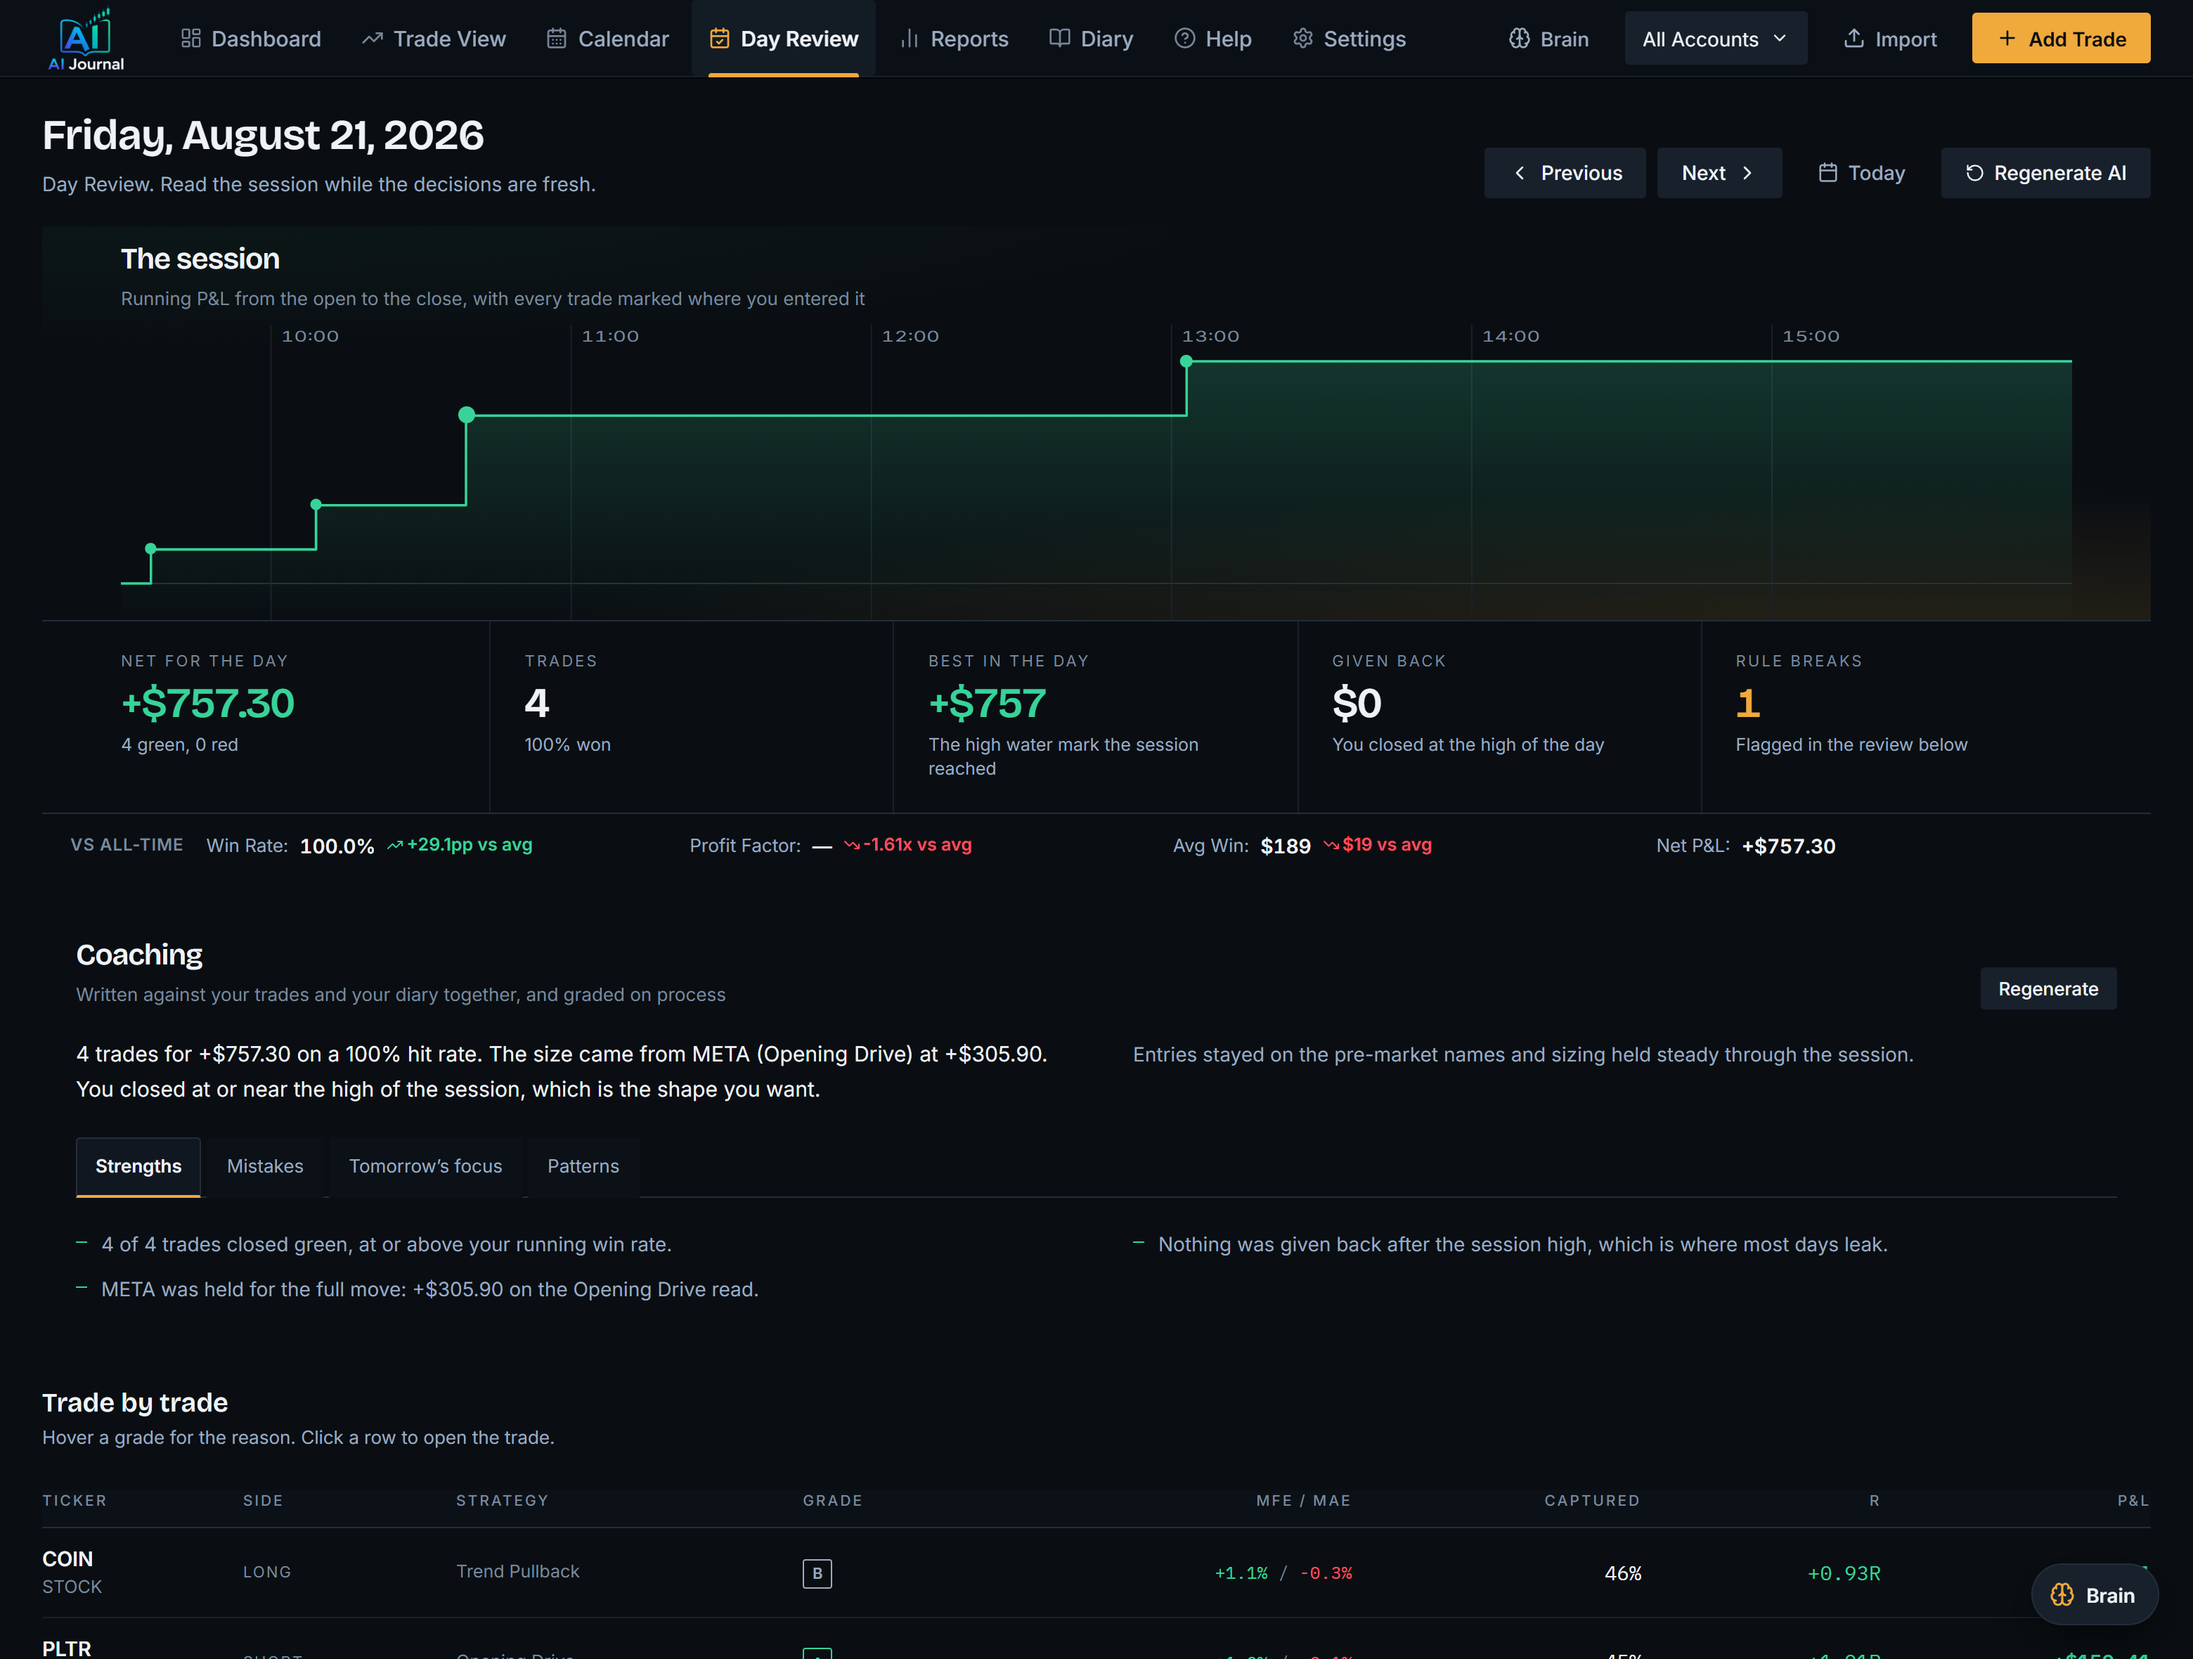
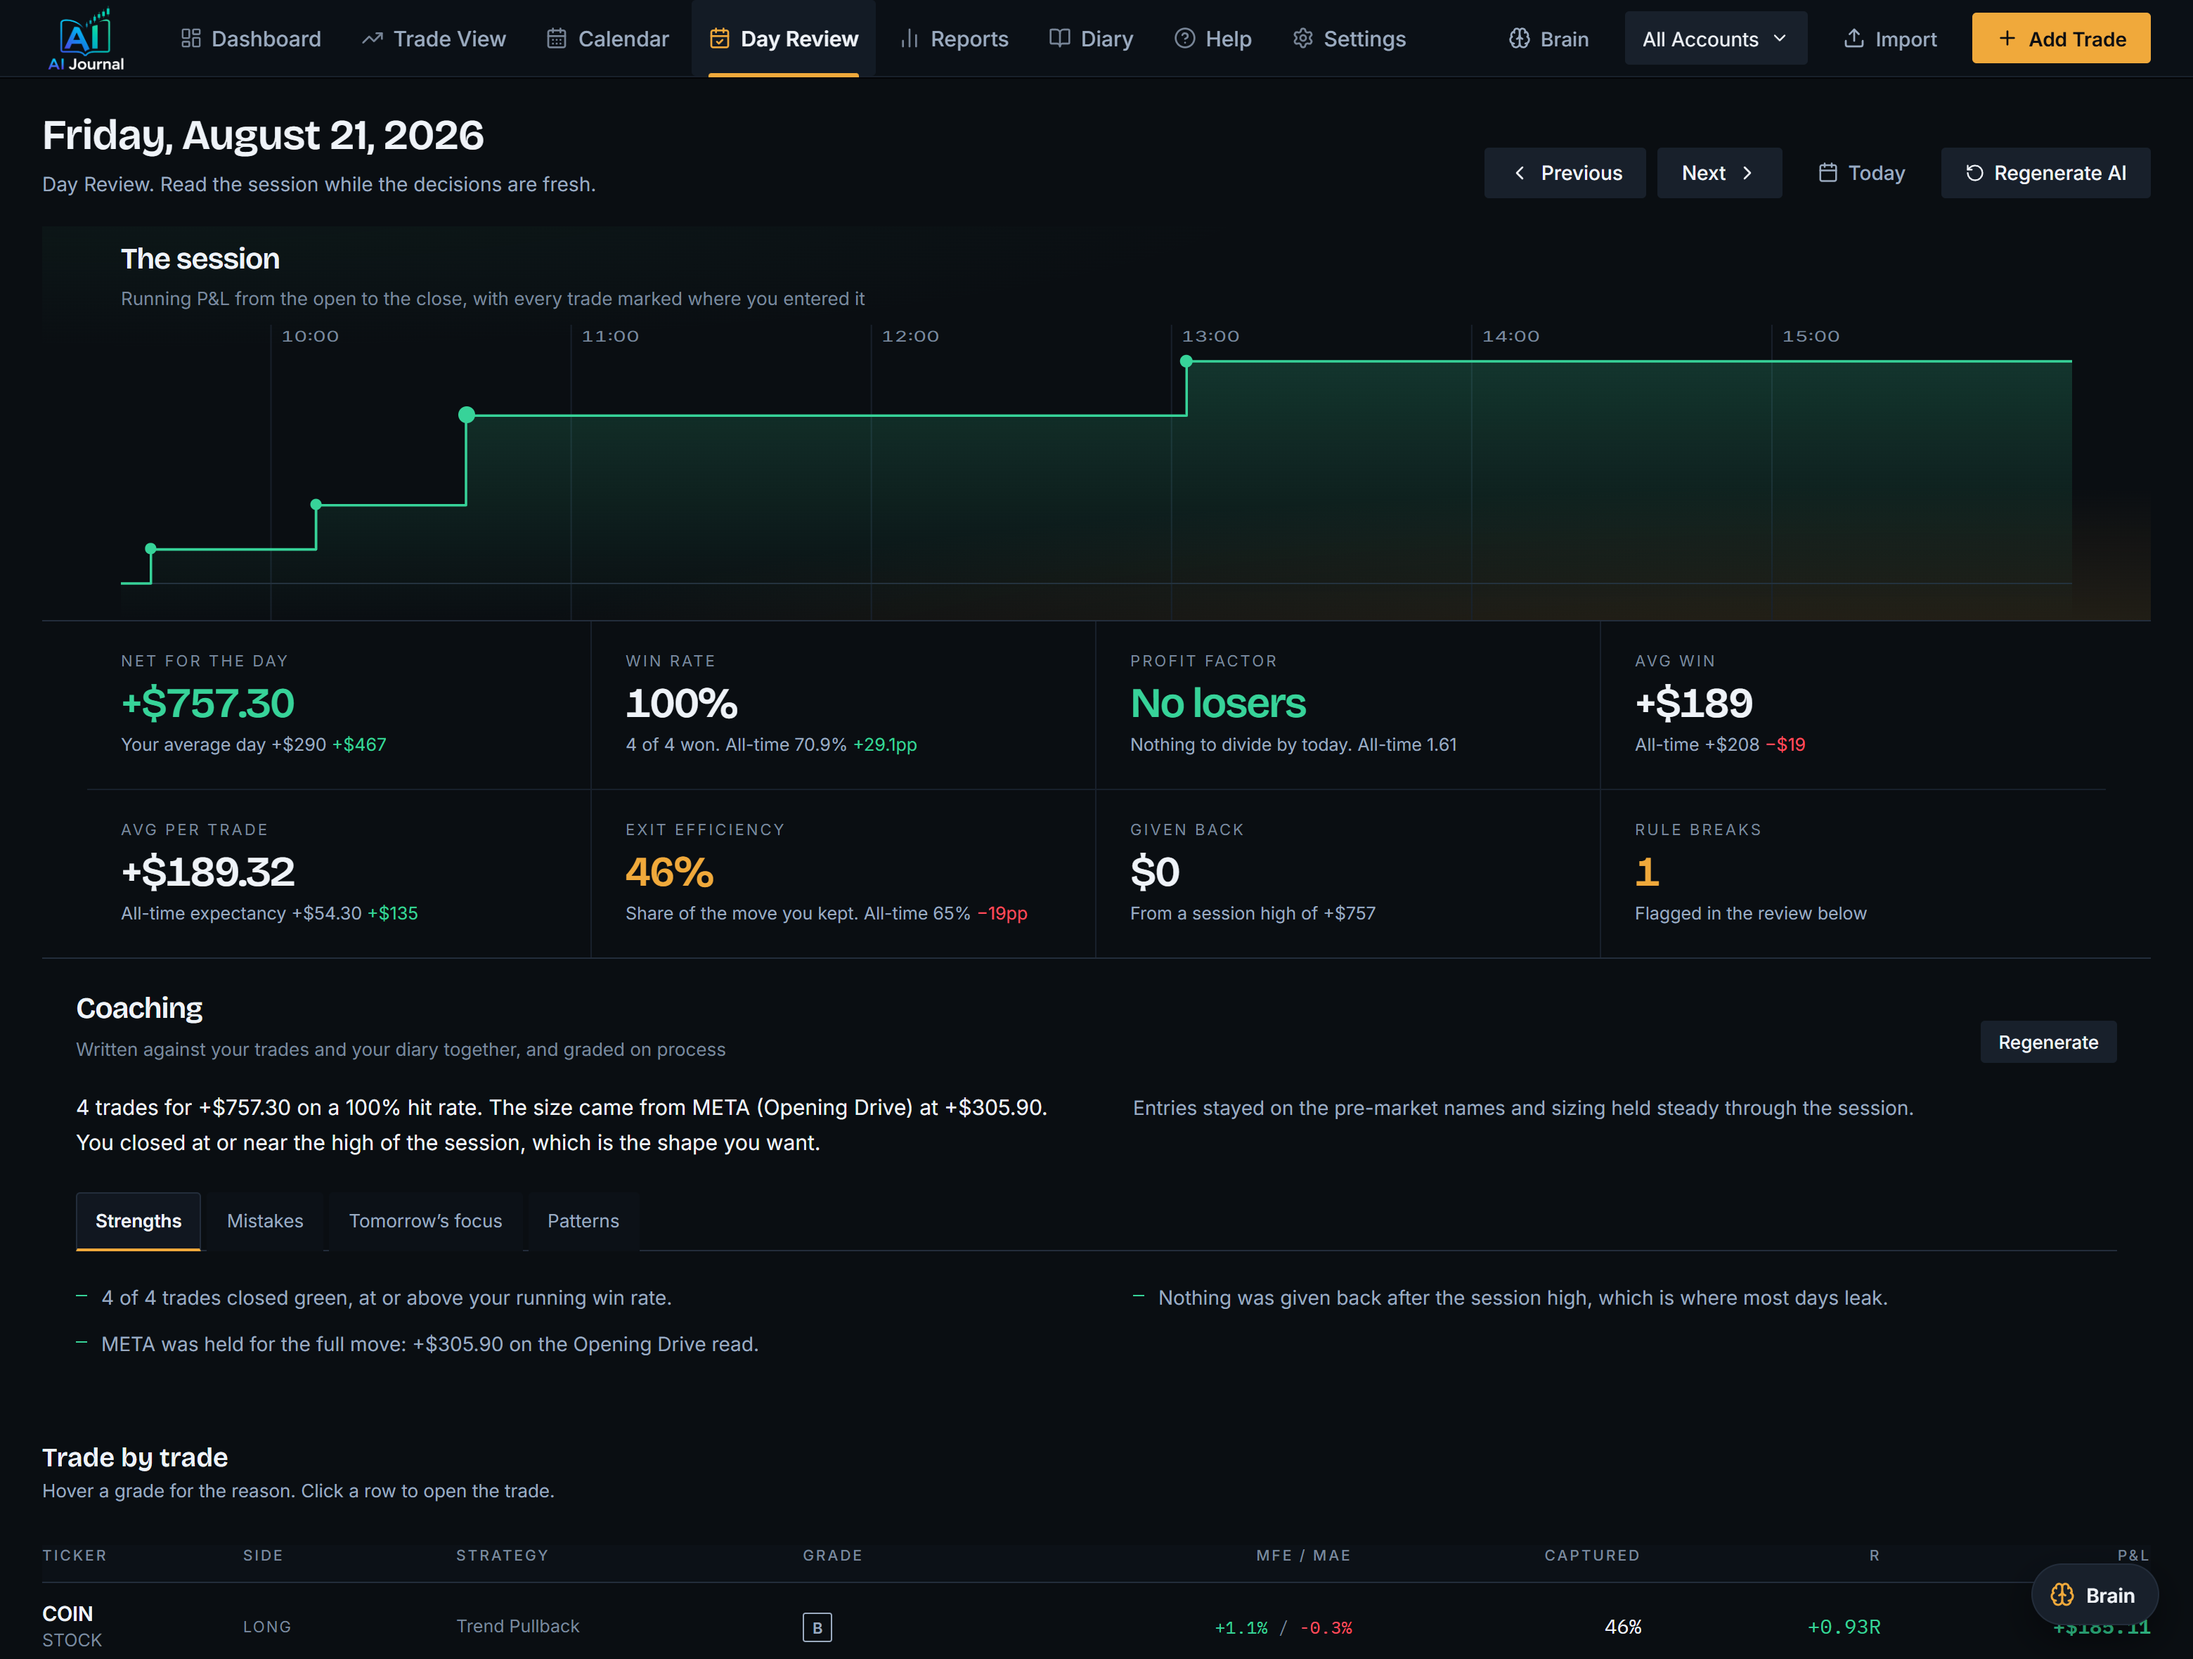
README and screenshots for the Day Review measures

diff --git a/README.md b/README.md
@@ -51,7 +51,9 @@ day's session; the legend entries switch layers on and off.
 ![Trade Details: executions, R-multiple, stop and target, and an intraday chart with fills](docs/screenshot-trade-detail.png)
 
 **Day Review.** The session as one picture: running P&L from the open to the close with every trade
-marked where you entered it. Underneath, an AI coaching report graded on process rather than P&L,
+marked where you entered it. The day's measures sit under it, each set against your all-time figure:
+win rate, profit factor, average win, average per trade against your expectancy, exit efficiency,
+and how much was given back from the session high. Underneath, an AI coaching report graded on process rather than P&L,
 which reads your trades and your diary together and is willing to tell you a profitable day was
 badly run.
 
